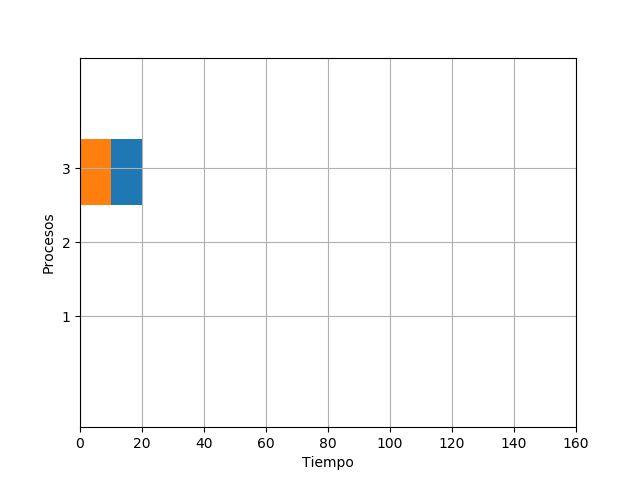
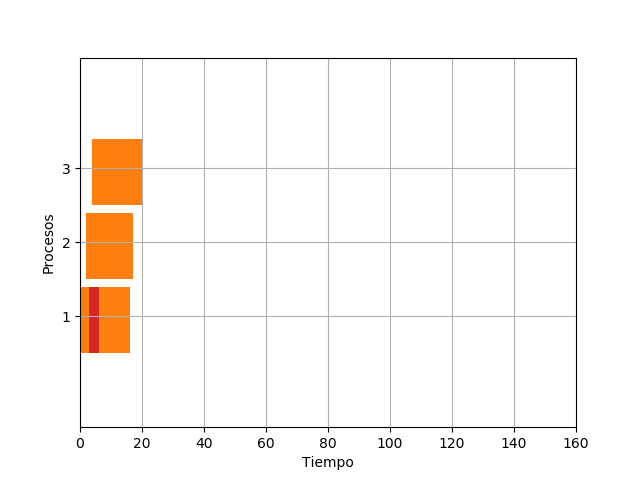
gantt 1.0

Changed region(s): [[0.125, 0.2812, 0.2188, 0.75]]

diff --git a/Clases/Procesador.py b/Clases/Procesador.py
@@ -252,7 +252,7 @@ class Procesador:  # contendra gran parte de las tareas generales
         intprocesos = procesos  # para manejar paso por copia en lugar de referencia
         # alg_planificacion = preset.algoritmo_as  # agregar luego como un valor de preset, traer de la BD
         cola_listos_principal = ColaListos()
-        self.gantt(procesos)
+        
         self.memoria = Memoria(preset.tamMemoria, preset.fija_variable,
                                preset.algoritmo_as, preset.sistOpMem,particiones)  # tamano, fija_variable
         self.memoria.imprime_particiones()
@@ -277,6 +277,7 @@ class Procesador:  # contendra gran parte de las tareas generales
             else:
                 print(self.proceso_actual)
             self.generar_tabla()
+            self.gantt(self.cubo)
             self.cuenta_tiempo()
             self.memoria.imprime_particiones()
             print("CLK: "+str(self.reloj_total))
@@ -311,9 +312,9 @@ class Procesador:  # contendra gran parte de las tareas generales
             print("ID: "+str(x.get_id())+" Tiempo Restante " +
                   str(x.get_tiempo_restante()))
         print("----------------")
-    def gantt(self, procesos):
-        p = procesos[0]
-        p2 = procesos[1]
+    def gantt(self, cubo):
+        #p = procesos[0]
+        #p2 = procesos[1]
         # Declaring a figure "gnt" 
         fig, gnt = plt.subplots() 
 
@@ -339,8 +340,19 @@ class Procesador:  # contendra gran parte de las tareas generales
         gnt.grid(True)
 
         # Declaring a bar in schedule 
-        gnt.broken_barh([(p.tiempo_arribo, 10)], (30, 9), facecolors =('tab:orange'))
-        gnt.broken_barh([(p.tiempo_arribo+10, 10)], (30, 9), facecolors =('tab:blue')) 
-
-        plt.savefig("C:\SistOperativo\SistOp2019\proc6.png") 
+        #gnt.broken_barh([(p.tiempo_arribo, 10)], (30, 9), facecolors =('tab:orange'))
+        #gnt.broken_barh([(p.tiempo_arribo+10, 10)], (30, 9), facecolors =('tab:blue'))
+        print("hola")
+        clk=0
+        for i in cubo:
+            col =0
+            for x in i:
+                if x[1]==5: #En estado ejecucion
+                    gnt.broken_barh([(clk, 10)], (col+10, 9), facecolors =('tab:orange'))
+                elif x[1]==3: #En estado bloqueado
+                    gnt.broken_barh([(clk, 10)], (col+10, 9), facecolors =('tab:red'))
+                col +=10
+            clk +=10
+        print("holaaa")
+        plt.savefig("C:\SistOperativo\SistOp2019\proc7.png") 
 
